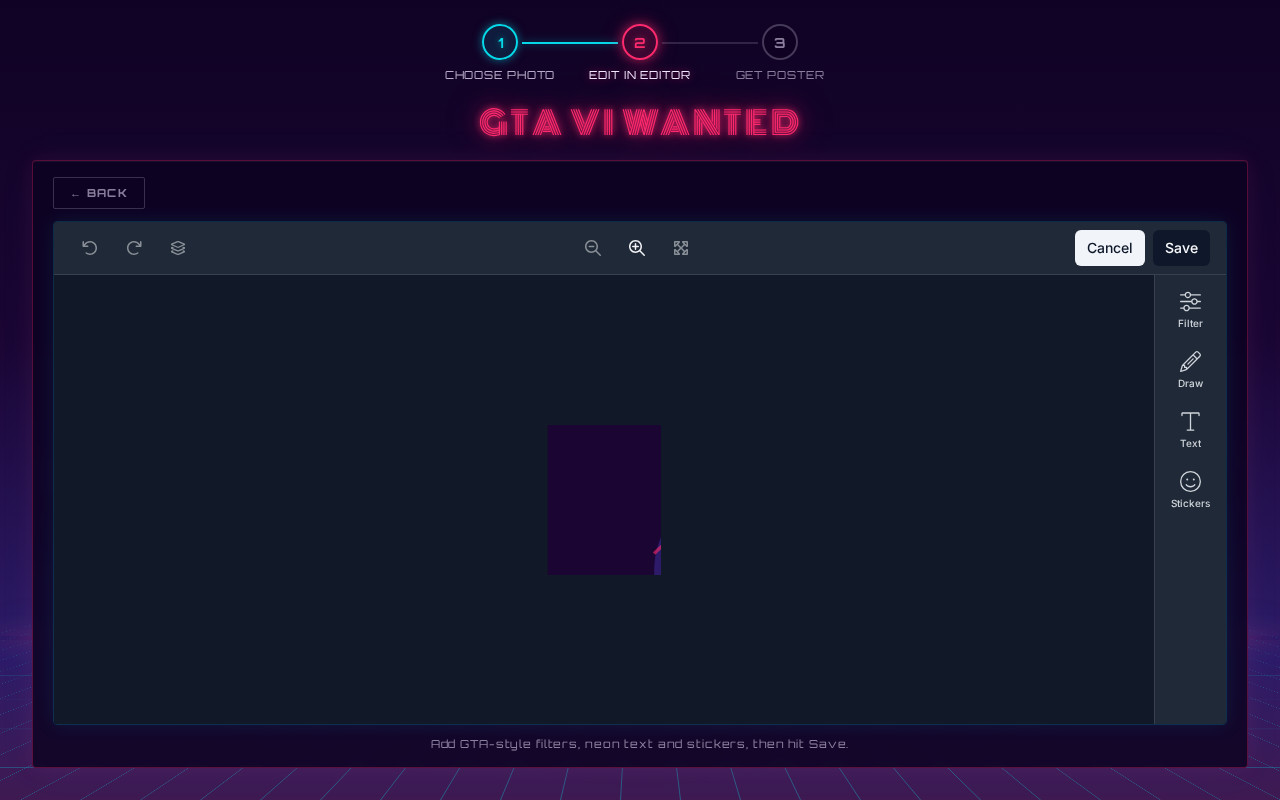
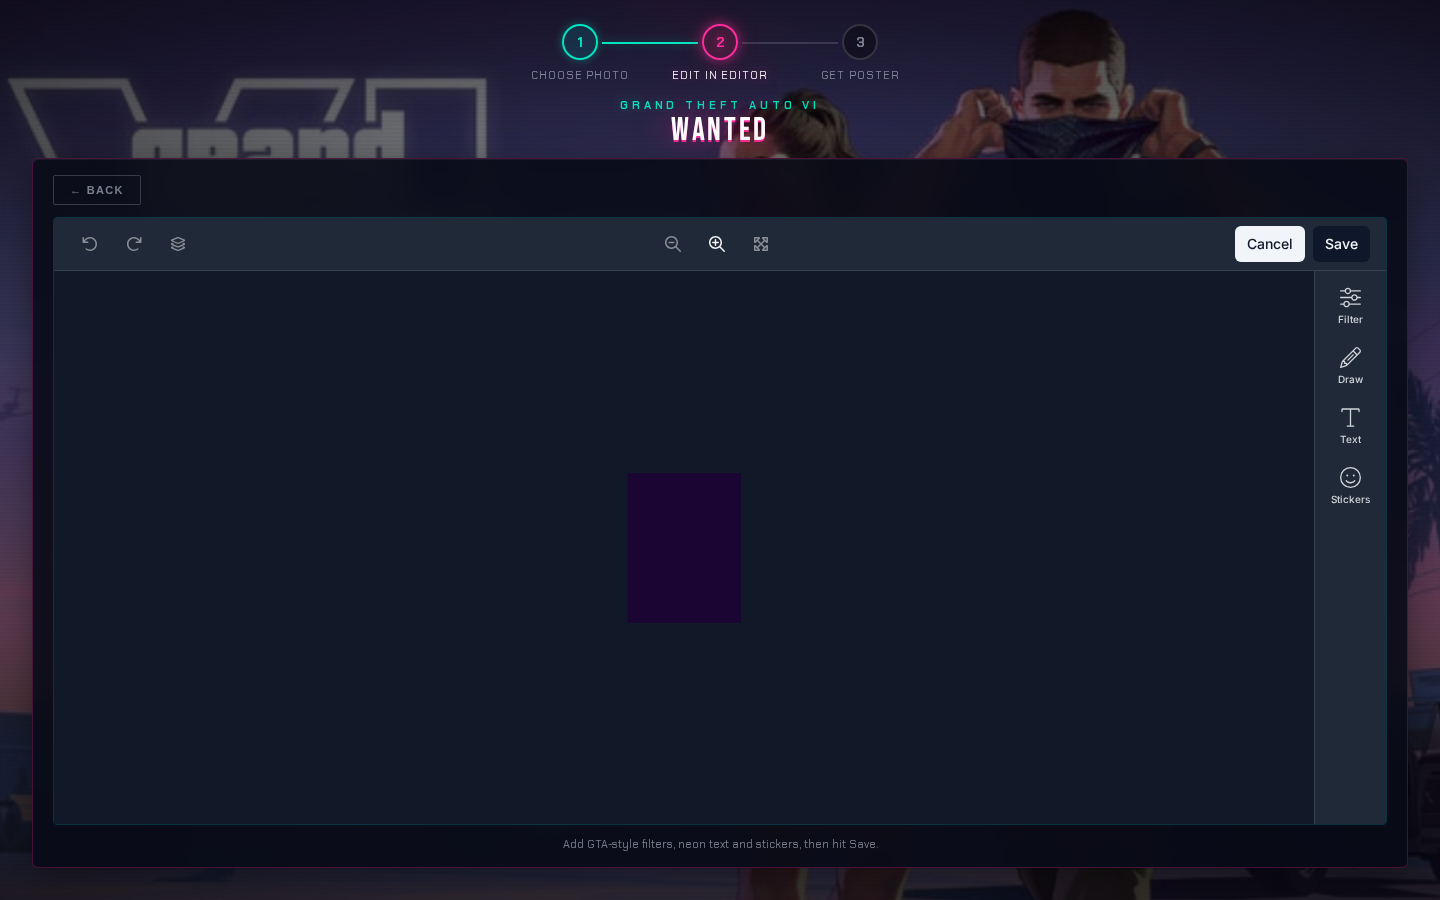
Readme updated

Changed region(s): [[0.0, 0.0, 1.0, 1.0], [0.5, 0.6875, 0.5312, 0.7188]]

diff --git a/README.md b/README.md
@@ -1,28 +1,56 @@
-# Vice City Wanted
+# GTA VI Wanted
 
-A GTA VI-inspired wanted-poster creator built with React and the [Unlayer React Image Editor](https://www.npmjs.com/package/@unlayer/react-image-editor). Upload a photo or pick a preset character, add neon filters and stickers in the editor, then reveal a dramatic **WANTED** poster you can download.
+Create your own **Grand Theft Auto VI**–style police wanted poster. Upload a mugshot, file a **VCPD case report**, edit your photo in the [Unlayer React Image Editor](https://www.npmjs.com/package/@unlayer/react-image-editor), then download a GTA IV–inspired LCPD bulletin as a PNG.
 
-![Choose your photo](./screenshots/01-choose-photo.png)
+**[Live demo](https://unlayer-react-image-editor-gta6.vercel.app)** · Fan-made demo · Not affiliated with Rockstar Games
+
+![GTA VI wanted poster preview](./screenshots/04-wanted-poster.png)
+
+## The experience
+
+A three-step flow built to feel like part of a real GTA product — not a bare editor widget dropped on a page.
+
+### 1. Choose Photo & File Case Report
+
+Pick your suspect photo and fill out the dossier:
+
+- **Upload** your own image or choose a preset character (Lucia, Jason, Outlaw, Racer)
+- **VCPD Case Report** — parchment-style form with:
+  - Charge / crime (with GTA crime suggestions)
+  - Last seen location
+  - Optional custom case statement
+  - Physical description (sex, age, race, height, weight, hair, eyes, complexion)
+  - Detective, assignment ref, and case number
+
+![Step 1 — Case report and photo selection](./screenshots/01-case-report.png)
+
+### 2. Edit in Editor
+
+Style your mugshot with the embedded Unlayer editor — filters, text, stickers, and drawing tools on a dark theme that matches the Vice City backdrop.
+
+![Step 2 — Image editor](./screenshots/03-image-editor.png)
+
+### 3. Get Poster
+
+Your edited photo and case details render into a wide **LCPD-style wanted bulletin**:
+
+- Aged paper texture and typewriter typography
+- Distressed red **WANTED** rubber-stamp
+- Description grid, narrative, VCPD badge, and GTA VI branding
+- **Download Poster** exports a high-res PNG
+- Sticky action bar so controls stay visible while you preview
+
+![Step 3 — Wanted poster](./screenshots/04-wanted-poster.png)
 
 ## Screenshots
 
-| Choose Photo | Photo Selected | Image Editor |
-| --- | --- | --- |
-| ![Step 1 — Choose Photo](./screenshots/01-choose-photo.png) | ![Step 2 — Photo selected](./screenshots/02-photo-selected.png) | ![Step 3 — Editor](./screenshots/03-image-editor.png) |
-
-## Why this experience
-
-**Vice City Wanted** is a playful, synthwave-styled demo that channels the hype around GTA VI — neon sunsets, palm trees, and over-the-top crime bounties — without being an official Rockstar product. It shows how a polished, themed creative flow can be built on top of a production-ready image editor:
-
-1. **Choose Photo** — upload your own image or pick from preset characters.
-2. **Edit in Editor** — style your mugshot with GTA-flavored filters, text, stickers, and drawing tools.
-3. **Get Poster** — your edited photo animates into a full **WANTED** card with a random crime, bounty, and Vice City Police Department footer, ready to download.
-
-The goal is to make editor integration feel like part of a real product experience, not a bare widget dropped on a page.
+| Case report | Photo selected | Image editor | Wanted poster |
+| --- | --- | --- | --- |
+| ![Case report](./screenshots/01-case-report.png) | ![Photo selected](./screenshots/02-photo-selected.png) | ![Editor](./screenshots/03-image-editor.png) | ![Poster](./screenshots/04-wanted-poster.png) |
 
 ## How the React Image Editor is used
 
-The app uses `@unlayer/react-image-editor` in **Step 2** via the `EditPhoto` component:
+The app uses `@unlayer/react-image-editor` in **Step 2** via `EditPhoto.jsx`:
 
 ```jsx
 <ImageEditor
@@ -50,21 +78,24 @@ The app uses `@unlayer/react-image-editor` in **Step 2** via the `EditPhoto` com
 />
 ```
 
-- **`image`** — the data URL or asset URL from Step 1.
-- **`options.theme`** — `'dark'` to match the synthwave UI.
-- **`options.features.imageEditor.tools`** — allow-list of tools; only filter, text, stickers, and draw are enabled.
-- **`onSave`** — receives `{ dataUrl, blob }`; the `dataUrl` is stored in App state and passed to the poster step.
-- **`onCancel`** — wired to the **← Back** button to return to photo selection.
+- **`image`** — data URL or asset URL from Step 1
+- **`options.theme`** — `'dark'` to match the cinematic GTA VI UI
+- **`options.features.imageEditor.tools`** — allow-list; only filter, text, stickers, and draw are enabled
+- **`onSave`** — receives `{ dataUrl, blob }`; the data URL is passed to the poster step
+- **`onCancel`** — wired to **← Back** to return to the case report
 
-The editor is fully unmounted when leaving Step 2 (and on **Start Over**), so each session starts with a clean instance.
+The editor is fully unmounted when leaving Step 2 (and on **Start Over**), so each session starts clean.
 
 ## Tech stack
 
-- **React 18** + **Vite**
-- **@unlayer/react-image-editor** — embedded image editing
-- **framer-motion** — page load, poster reveal, and step transitions
-- **html-to-image** — export the HTML/CSS poster card as a PNG
-- Plain **CSS** (CSS variables, no UI framework)
+| Layer | Choice |
+| --- | --- |
+| Framework | React 18 + Vite |
+| Image editing | [@unlayer/react-image-editor](https://www.npmjs.com/package/@unlayer/react-image-editor) |
+| Motion | framer-motion |
+| Poster export | html-to-image |
+| Styling | Plain CSS (no UI framework) |
+| Fonts | Bebas Neue, Chakra Petch, Roboto Slab, Special Elite |
 
 ## Local setup
 
@@ -83,22 +114,53 @@ npm run preview  # preview production build
 npm run lint     # oxlint
 ```
 
+### Refresh README screenshots
+
+After UI changes, rebuild and capture new screenshots:
+
+```bash
+npm run build
+npm run preview -- --host 127.0.0.1 --port 4173 &
+npx -p playwright node scripts/capture-screenshots.mjs
+```
+
+## Deploy on Vercel
+
+| Setting | Value |
+| --- | --- |
+| Framework Preset | Vite |
+| Root Directory | `./` |
+| Build Command | `npm run build` |
+| Output Directory | `dist` |
+| Install Command | `npm install` |
+
+No environment variables required.
+
 ## Project structure
 
 ```
 src/
 ├── components/
-│   ├── ChoosePhoto.jsx   # Step 1 — upload / presets
-│   ├── EditPhoto.jsx     # Step 2 — Unlayer editor
-│   ├── Poster.jsx        # Step 3 — wanted poster + download
+│   ├── ChoosePhoto.jsx    # Step 1 — photo + VCPD case report form
+│   ├── EditPhoto.jsx      # Step 2 — Unlayer image editor
+│   ├── Poster.jsx         # Step 3 — LCPD bulletin + PNG download
 │   ├── ProgressBar.jsx
-│   └── PalmTrees.jsx
+│   └── ViceCityScene.jsx  # GTA VI cinematic background
 ├── data/
-│   ├── crimes.js         # random crimes & bounties
-│   └── presets.js        # preset character images
-└── assets/               # character placeholder images
+│   ├── crimes.js          # crime suggestions for the report
+│   ├── posterCopy.js      # narrative & random profile helpers
+│   ├── posterReport.js    # case report defaults & validation
+│   └── presets.js         # preset character images
+├── assets/
+│   ├── gta-vi-bg.png      # official-style backdrop art
+│   └── character-*.svg    # preset mugshot placeholders
+└── App.jsx                # step routing & shared state
 ```
+
+## Disclaimer
+
+This is a **fan-made demo** for educational purposes, built to showcase the Unlayer React Image Editor. It is not affiliated with, endorsed by, or sponsored by Rockstar Games or Take-Two Interactive. Grand Theft Auto and related marks are trademarks of their respective owners.
 
 ---
 
-Built as a demo for **Vice City Wanted — Built with React Image Editor**.
+Built with **GTA VI Wanted — React Image Editor**
